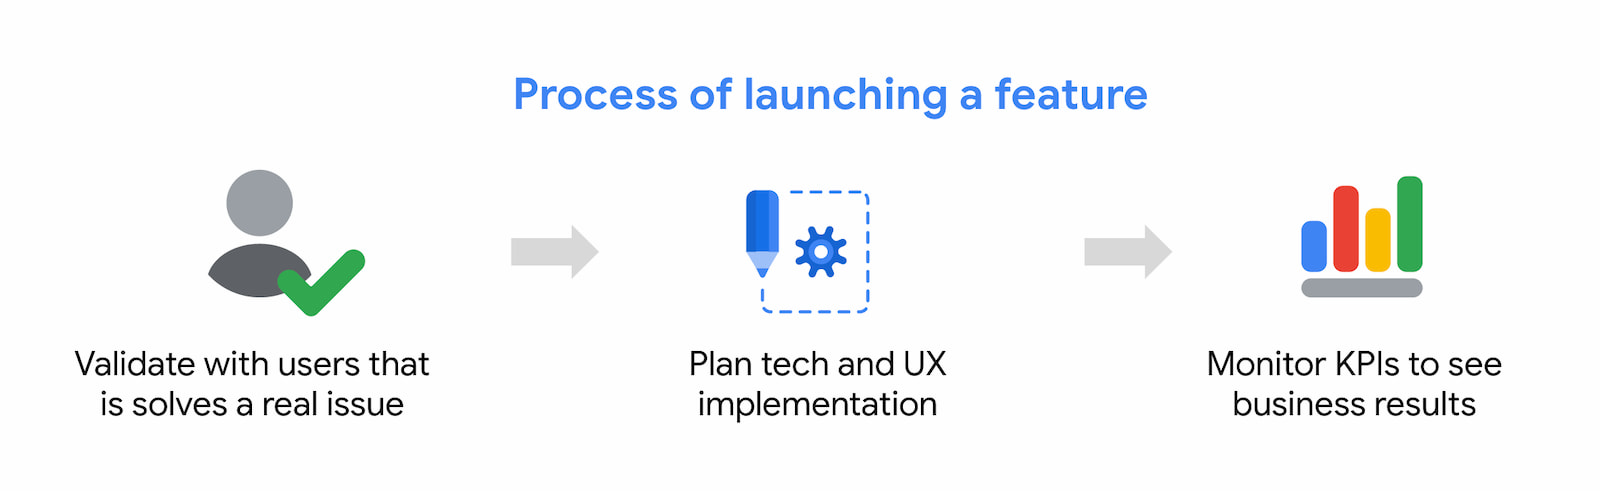
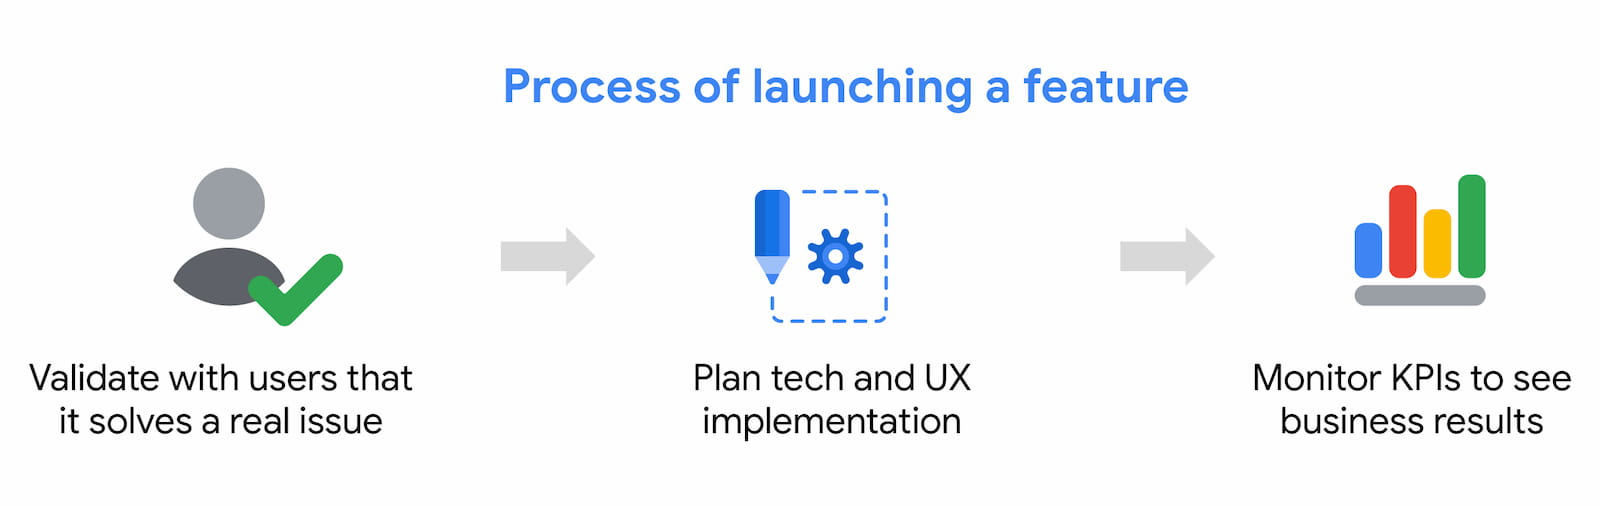
Updated images & integrate feedback.

diff --git a/src/site/_data/contributors.js b/src/site/_data/contributors.js
@@ -131,6 +131,9 @@ const contributors = {
       name: 'Google',
       unit: 'Mobile Solutions Consultant',
     },
+    twitter: 'SebFourault',
+    github: 'krustydaclown',
+    homepage: 'https://medium.com/@sebFourault',
     country: 'FR',
   },
   tomgreenaway: {

diff --git a/src/site/content/en/progressive-web-apps/drive-business-success/index.md b/src/site/content/en/progressive-web-apps/drive-business-success/index.md
@@ -17,7 +17,7 @@ how much will it grow my business, what is technically feasible?
 
 To shape your digital strategy, several stakeholders are often involved: the
 product manager and CMO are co-owners of the business impact of each feature,
-the CTO assess the feasibility and reliability of a technology, the UX
+the CTO assesses the feasibility and reliability of a technology, the UX
 Researchers validate that a feature answers a real customer issue.
 
 This article aims to help you answer those three questions and shape your
@@ -45,12 +45,12 @@ When doing user research, we find some interesting patterns:
   less than 1MB).
 * Smartphone users are more likely to purchase from mobile sites that
   [offer relevant recommendations][twg-purchase] on products, and 85% of
-  smartphone users say mobile notifications are useful.
+  smartphone users say [mobile notifications are useful][twg-notifications].
 
 According to those observations, we found out that customers prefer
 experiences that are fast, installable, reliable, and engaging (F.I.R.E.)!
 
-## PWAs leverages modern web capabilities {: #modern-capabilities }
+## PWAs leverage modern web capabilities {: #modern-capabilities }
 
 PWAs provide a set of best practices and modern web APIs that are aimed at
 meeting your customers' needs by making your site fast, installable, reliable,
@@ -305,6 +305,7 @@ measure precisely how much extra money your PWA generated.
 [twg-uninstall]: https://www.thinkwithgoogle.com/data/why-users-uninstall-travel-apps/
 [twg-purchase]: https://www.thinkwithgoogle.com/data/smartphone-mobile-app-and-site-purchase-data/
 [twg-trivago]: https://www.thinkwithgoogle.com/intl/en-154/insights-inspiration/case-studies/trivago-embrace-progressive-web-apps-as-the-future-of-mobile/
+[twg-notifications]: https://www.thinkwithgoogle.com/data/smartphone-user-notification-preferences/
 [not-ux-bp]: https://developers.google.com/web/fundamentals/push-notifications/permission-ux
 [dgc-web-push]: https://developers.google.com/web/fundamentals/push-notifications/
 [carrefour-45x]: https://useinsider.com/case-studies/carrefour/
